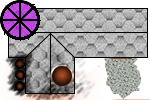
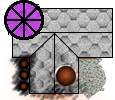
Colliders size tweaks, better workshop texture

diff --git a/src/entities/buildings/fortress.py b/src/entities/buildings/fortress.py
@@ -20,6 +20,6 @@ def create_fortress(x: float, y: float, player_owner: PlayerOwnerComponent):
                                 producible_units={'worker': RequiredCost(money=1, wood=1, meat=1)}),
         HealthComponent(max_amount=1000),
         ResourceDepotComponent(),
-        ColliderComponent(radius=75, static=True),
+        ColliderComponent(radius=85, static=True),
         CoreBuildingComponent(),
     ]

diff --git a/src/entities/buildings/workshop.py b/src/entities/buildings/workshop.py
@@ -16,5 +16,5 @@ def create_workshop(x: float, y: float, player_owner: PlayerOwnerComponent):
         player_owner,
         UnitProductionComponent(delay=15 * 60, producible_units={'ballista': RequiredCost(money=100, wood=500, meat=2)}),
         HealthComponent(max_amount=500),
-        ColliderComponent(radius=80, static=True),
+        ColliderComponent(radius=60, static=True),
     ]

diff --git a/src/entities/resources/mine.py b/src/entities/resources/mine.py
@@ -9,5 +9,5 @@ def create_mine(x: float, y: float):
         PositionComponent(x, y),
         TextureComponent.create_from_filepath(f'assets/building/mine/mine.png'),
         ResourceComponent(money=5000),
-        ColliderComponent(radius=50, static=True),
+        ColliderComponent(radius=75, static=True),
     ]

diff --git a/src/entities/resources/worker.py b/src/entities/resources/worker.py
@@ -21,5 +21,5 @@ def create_worker(x: float, y: float, player_owner: PlayerOwnerComponent):
         WorkFinderComponent(),
         HealthComponent(max_amount=75),
         ResourceGathererComponent(60, 5, 50, 50),
-        ColliderComponent(5),
+        ColliderComponent(7),
     ]
